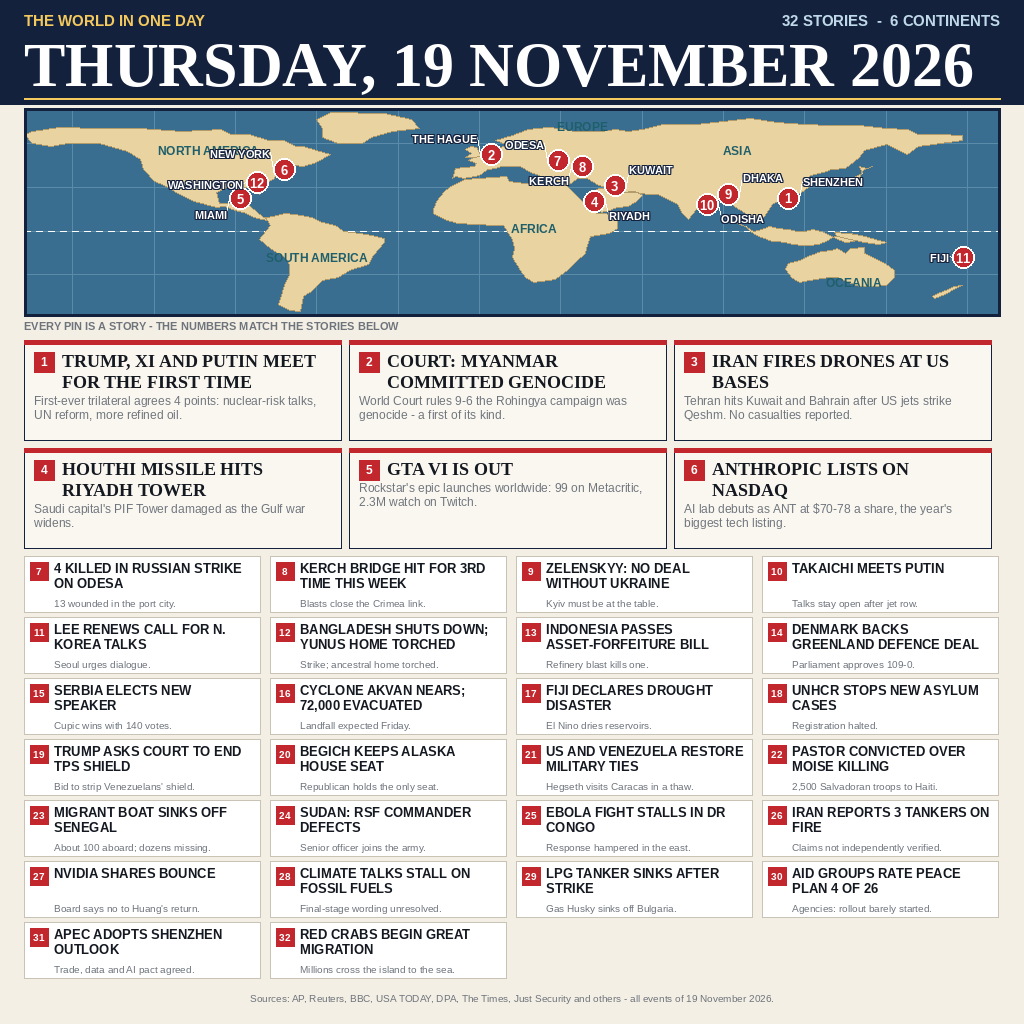
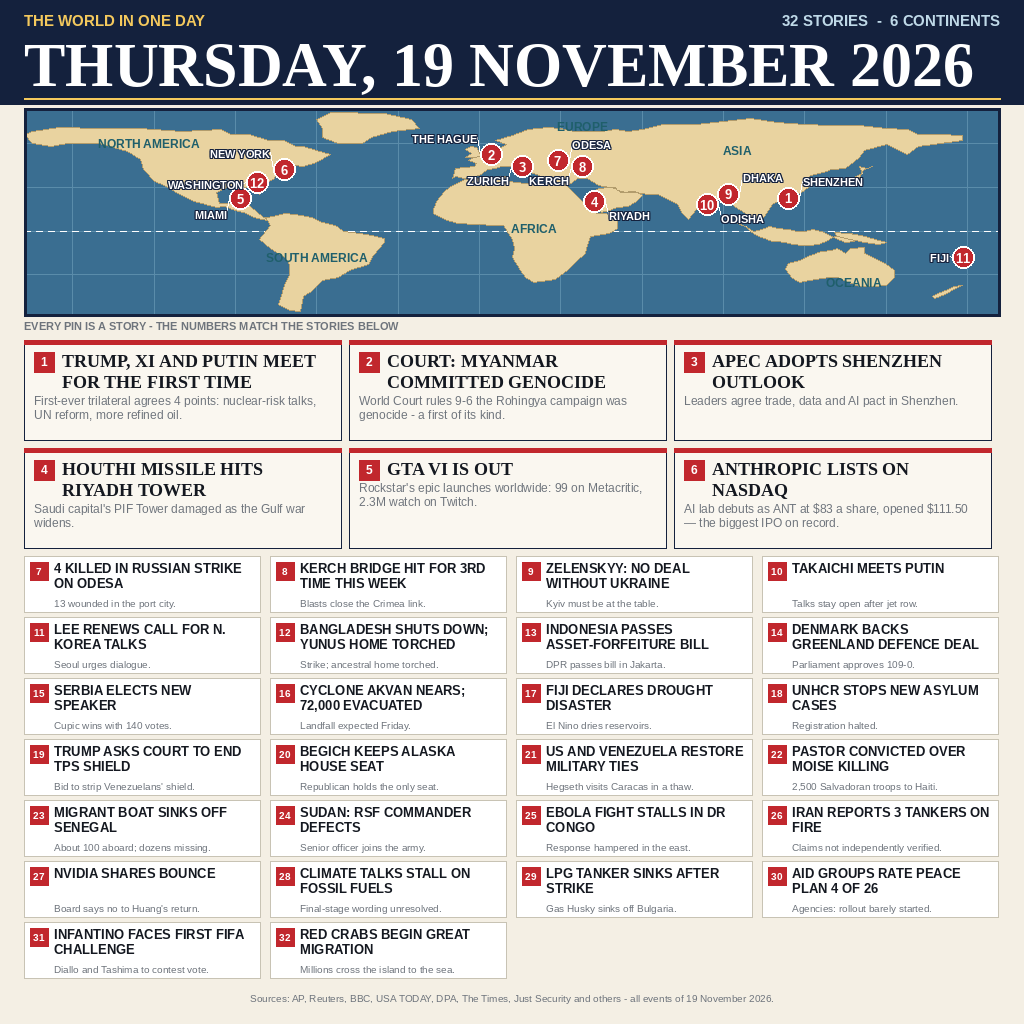
news-image-20261119 v2: fix verifier blockers - APEC lead replaces wrong-dated Iran lead, Anthropic price $83/$111.50, FIFA grid story, label fixes

diff --git a/draw.py b/draw.py
@@ -197,11 +197,11 @@ LAND_RINGS = [
 PINS = [
     (1, 114.1, 22.5, "SHENZHEN", "r", -16, 114.1, 22.5),
     (2, 4.3, 52.1, "THE HAGUE", "l", -16, 4.3, 52.1),
-    (3, 48.0, 29.4, "KUWAIT", "r", -16, 50.0, 31.0),
+    (3, 8.5, 47.4, "ZURICH", "l", 14, 16.0, 44.0),
     (4, 46.7, 24.7, "RIYADH", "r", 14, 42.5, 20.0),
     (5, -80.2, 25.8, "MIAMI", "l", 16, -88.0, 22.0),
     (6, -74.0, 40.7, "NEW YORK", "l", -16, -72.0, 42.0),
-    (7, 30.7, 46.5, "ODESA", "l", -16, 29.0, 48.0),
+    (7, 30.7, 46.5, "ODESA", "r", -16, 29.0, 48.0),
     (8, 36.5, 45.3, "KERCH", "l", 14, 38.0, 44.0),
     (9, 90.4, 23.8, "DHAKA", "r", -16, 92.0, 25.0),
     (10, 85.7, 19.8, "ODISHA", "r", 14, 84.0, 18.0),
@@ -210,7 +210,7 @@ PINS = [
 ]
 
 REGION_LABELS = [
-    ("NORTH AMERICA", -100.0, 55.0),
+    ("NORTH AMERICA", -122.0, 60.0),
     ("SOUTH AMERICA", -60.0, -18.0),
     ("EUROPE", 38.0, 72.0),
     ("AFRICA", 20.0, 2.0),
@@ -278,14 +278,14 @@ LEAD = [
      "First-ever trilateral agrees 4 points: nuclear-risk talks, UN reform, more refined oil."),
     ("COURT: MYANMAR COMMITTED GENOCIDE",
      "World Court rules 9-6 the Rohingya campaign was genocide - a first of its kind."),
-    ("IRAN FIRES DRONES AT US BASES",
-     "Tehran hits Kuwait and Bahrain after US jets strike Qeshm. No casualties reported."),
+    ("APEC ADOPTS SHENZHEN OUTLOOK",
+     "Leaders agree trade, data and AI pact in Shenzhen."),
     ("HOUTHI MISSILE HITS RIYADH TOWER",
      "Saudi capital's PIF Tower damaged as the Gulf war widens."),
     ("GTA VI IS OUT",
      "Rockstar's epic launches worldwide: 99 on Metacritic, 2.3M watch on Twitch."),
     ("ANTHROPIC LISTS ON NASDAQ",
-     "AI lab debuts as ANT at $70-78 a share, the year's biggest tech listing."),
+     "AI lab debuts as ANT at $83 a share, opened $111.50 — the biggest IPO on record."),
 ]
 
 GRID = [
@@ -295,7 +295,7 @@ GRID = [
     ("TAKAICHI MEETS PUTIN", "Talks stay open after jet row."),
     ("LEE RENEWS CALL FOR N. KOREA TALKS", "Seoul urges dialogue."),
     ("BANGLADESH SHUTS DOWN; YUNUS HOME TORCHED", "Strike; ancestral home torched."),
-    ("INDONESIA PASSES ASSET-FORFEITURE BILL", "Refinery blast kills one."),
+    ("INDONESIA PASSES ASSET-FORFEITURE BILL", "DPR passes bill in Jakarta."),
     ("DENMARK BACKS GREENLAND DEFENCE DEAL", "Parliament approves 109-0."),
     ("SERBIA ELECTS NEW SPEAKER", "Cupic wins with 140 votes."),
     ("CYCLONE AKVAN NEARS; 72,000 EVACUATED", "Landfall expected Friday."),
@@ -313,7 +313,7 @@ GRID = [
     ("CLIMATE TALKS STALL ON FOSSIL FUELS", "Final-stage wording unresolved."),
     ("LPG TANKER SINKS AFTER STRIKE", "Gas Husky sinks off Bulgaria."),
     ("AID GROUPS RATE PEACE PLAN 4 OF 26", "Agencies: rollout barely started."),
-    ("APEC ADOPTS SHENZHEN OUTLOOK", "Trade, data and AI pact agreed."),
+    ("INFANTINO FACES FIRST FIFA CHALLENGE", "Diallo and Tashima to contest vote."),
     ("RED CRABS BEGIN GREAT MIGRATION", "Millions cross the island to the sea."),
 ]
 
